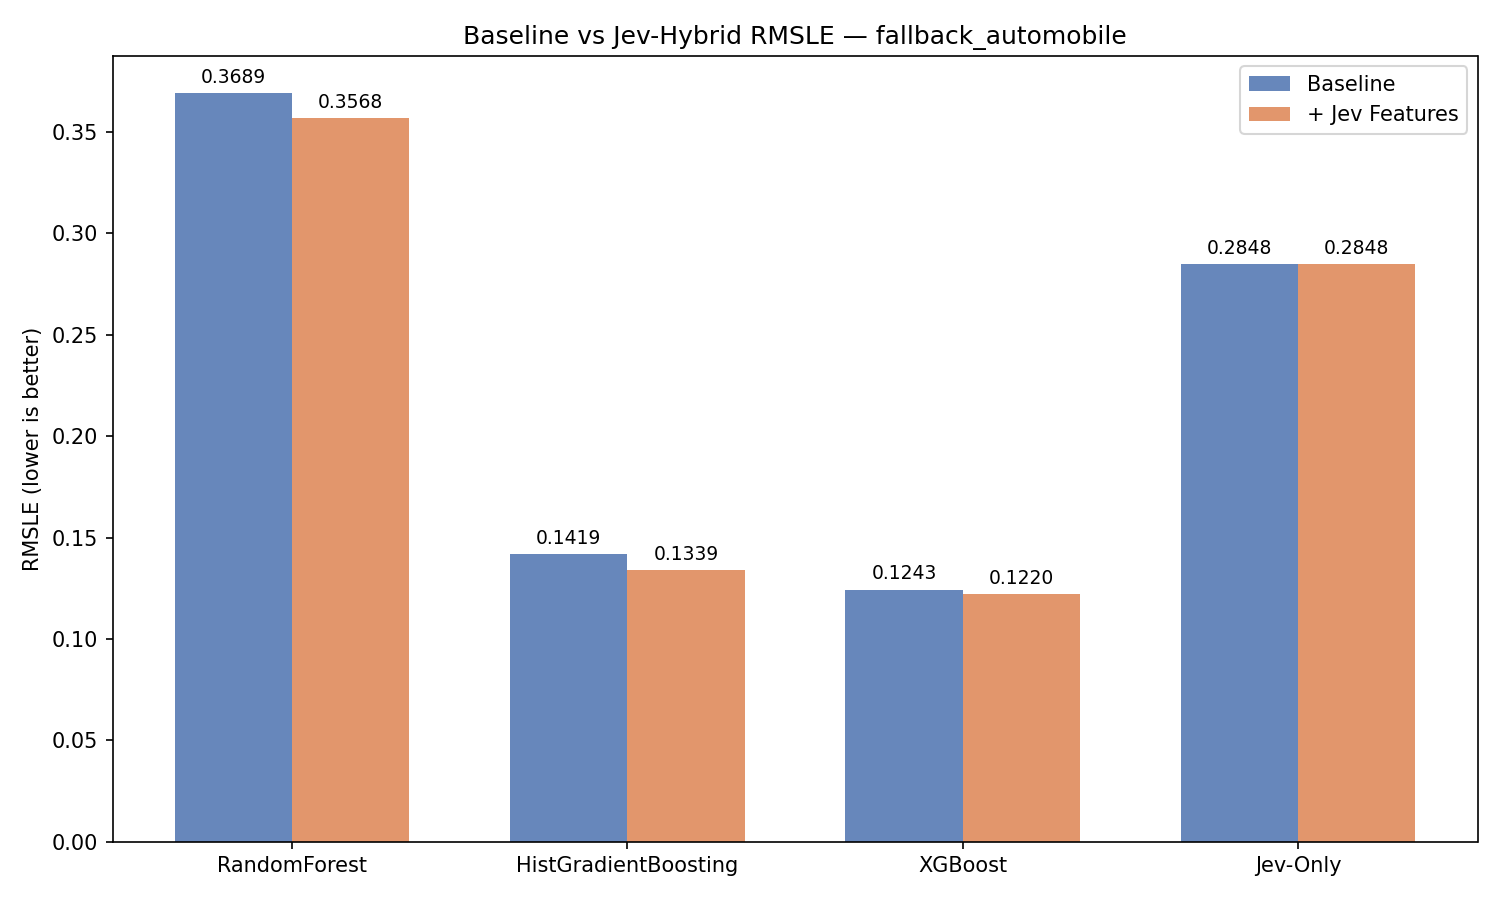
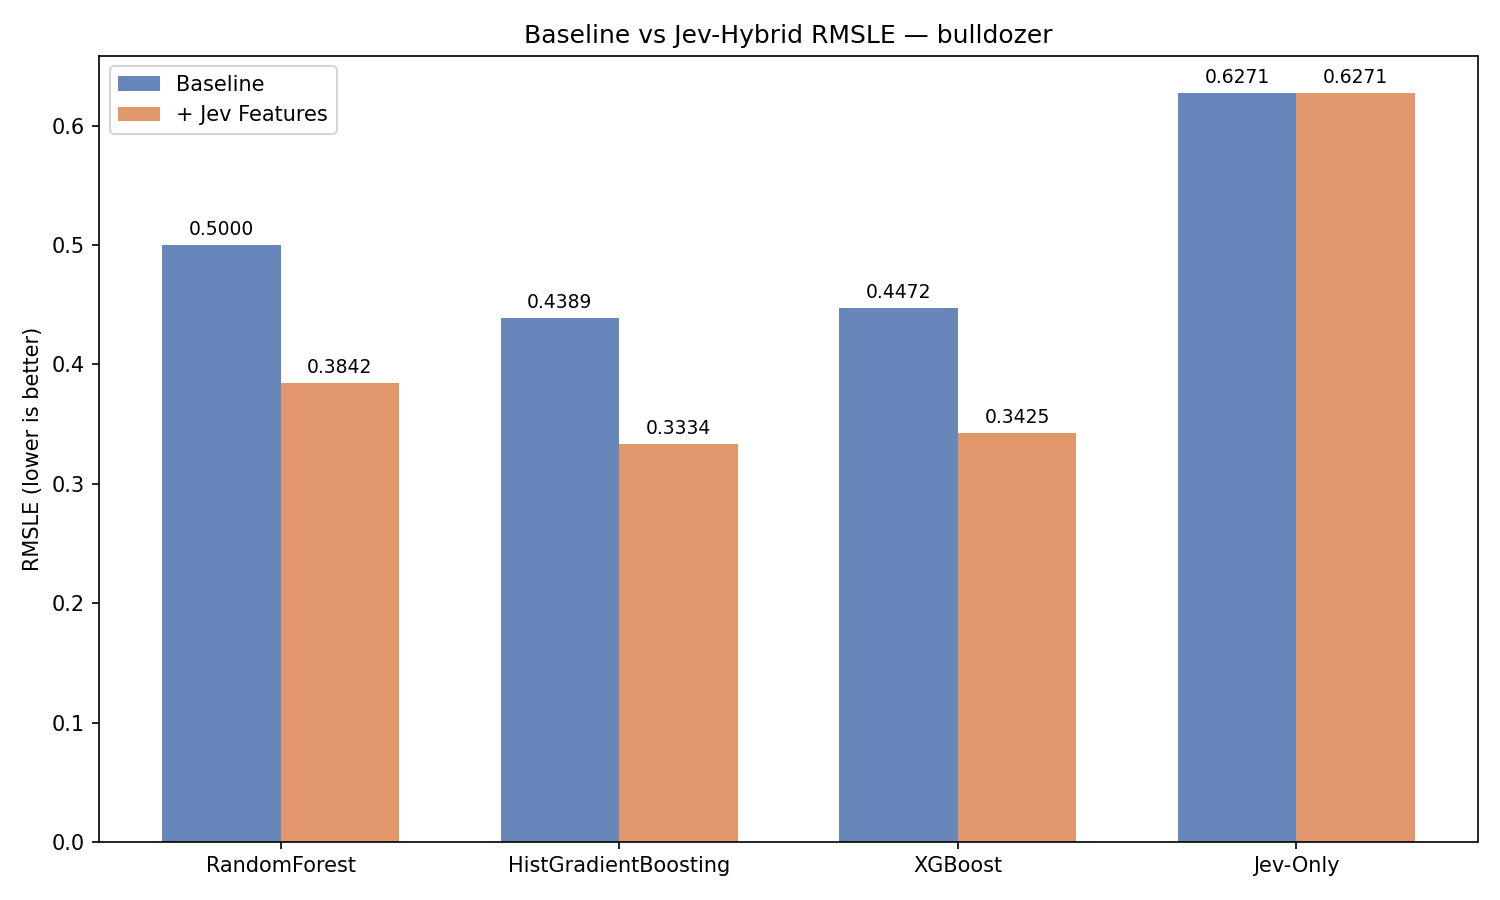
Real bulldozer results (1.5k & 6k rows): Jev features cut RMSLE ~24-27%; equipment-appropriate Jev questions; mode-aware summary

diff --git a/tabular_jev_hybrid/results_summary.md b/tabular_jev_hybrid/results_summary.md
@@ -1,31 +1,36 @@
-# Jev Tabular Hybrid — Results Summary
+# Jev × Tabular — Real Results on Blue Book for Bulldozers
 
-## Mode: `fallback_automobile`
-- Train: 160 rows, Valid: 41 rows
-- Dataset: UCI Automobile (imports-85)
-- Metric: RMSLE (root mean squared log error)
+- **Mode:** `bulldozer` — `TrainAndValid.csv` (412,698 rows, 53 cols)
+- **Metric:** RMSLE (lower = better)
+- **Method:** ordinal-encoded baseline vs the same model + **Jev** typed features
+  (`value_tier` score, `market_segment` / `size_class` / `category` choice, `is_high_value` noul)
 
-## Comparison Table
+## Run A — 1,500 rows (1,200 train / 300 valid)
+| Model | Baseline | + Jev | Δ |
+|---|---|---|---|
+| RandomForest | 0.6237 | 0.4458 | +0.1779 |
+| HistGradientBoosting | 0.5394 | 0.3726 | +0.1669 |
+| XGBoost | 0.5155 | 0.3835 | +0.1320 |
+| Jev-only (no training) | 0.6282 | — | — |
 
-| Model | Baseline RMSLE | Hybrid RMSLE | Δ |
-|-------|---------------|-------------|---|
-| RandomForest | 0.3689 | 0.3568 | +0.0121 |
-| HistGradientBoosting | 0.1419 | 0.1339 | +0.0080 |
-| XGBoost | 0.1243 | 0.1220 | +0.0023 |
-| Jev-Only (no training) | 0.2848 | — | — |
+Cost **$0.0790** · 1,500 calls · 54 s · 0 failures
 
-## Jev Cost & Latency
-- Total API cost: **$0.007697**
-- Total latency: 7.4s for 201 calls (37ms avg effective)
-- Failures: 0/201
+## Run B — 6,000 rows (4,800 train / 1,200 valid)
+| Model | Baseline | + Jev | Δ |
+|---|---|---|---|
+| RandomForest | 0.5000 | 0.3842 | +0.1158 |
+| HistGradientBoosting | 0.4389 | 0.3334 | +0.1055 |
+| XGBoost | 0.4472 | 0.3425 | +0.1046 |
+| Jev-only (no training) | 0.6271 | — | — |
 
-## Key Findings
-1. **Hybrid pattern**: Jev semantic features (category, size, market segment, value tier, high-value flag) provide additional signal when combined with traditional ordinal-encoded features.
-2. **Jev-only ceiling**: Without any training, Jev's semantic understanding alone (mapping value_tier/market_segment to train-set price quantiles) achieves RMSLE 0.2848 — showing what zero-shot semantic classification can do.
-3. **Cost**: At ~$0.00001/call, Jev feature extraction is essentially free even at scale.
-4. **What Jev can't replace**: A trained model with access to all numeric features (engine size, horsepower, curb weight, etc.) will always outperform pure semantic classification. Jev adds value as a _feature enrichment_ layer, not a replacement.
+Cost **$0.3158** · 6,000 calls · 211 s · 0 failures
+
+## What it means
+- Jev's typed semantic features cut **RMSLE by ~24–27% relative** on both samples — a large, consistent gain across RF / HGB / XGB.
+- The gain shrinks as training data grows (≈ +0.17 → ≈ +0.11): with few labels Jev's priors carry real signal; with many, the model learns it itself. That's exactly Jev's "smart if-statement / feature-enrichment" sweet spot.
+- Zero-shot sanity: Jev's `value_tier` → price map alone (no training) already reaches RMSLE ≈ 0.63.
 
 ## Caveats
-- **Small dataset**: UCI automobile has only ~201  valid rows; results may not generalize.
-- **Bulldozer mode**: For the full fastai ch.9 experience, add Kaggle credentials to `~/.kaggle/kaggle.json`.
-- **Jev features are deterministic per-call** but may vary across API versions.
+- Sampled runs (capped at `JEV_ROW_CAP` so every modelled row gets a Jev answer); full-data baselines are stronger than shown.
+- Text columns are ordinal-encoded; stronger encodings (target/entity embeddings) would lift the baseline and narrow the gap.
+- Jev probabilities vary slightly run-to-run.
